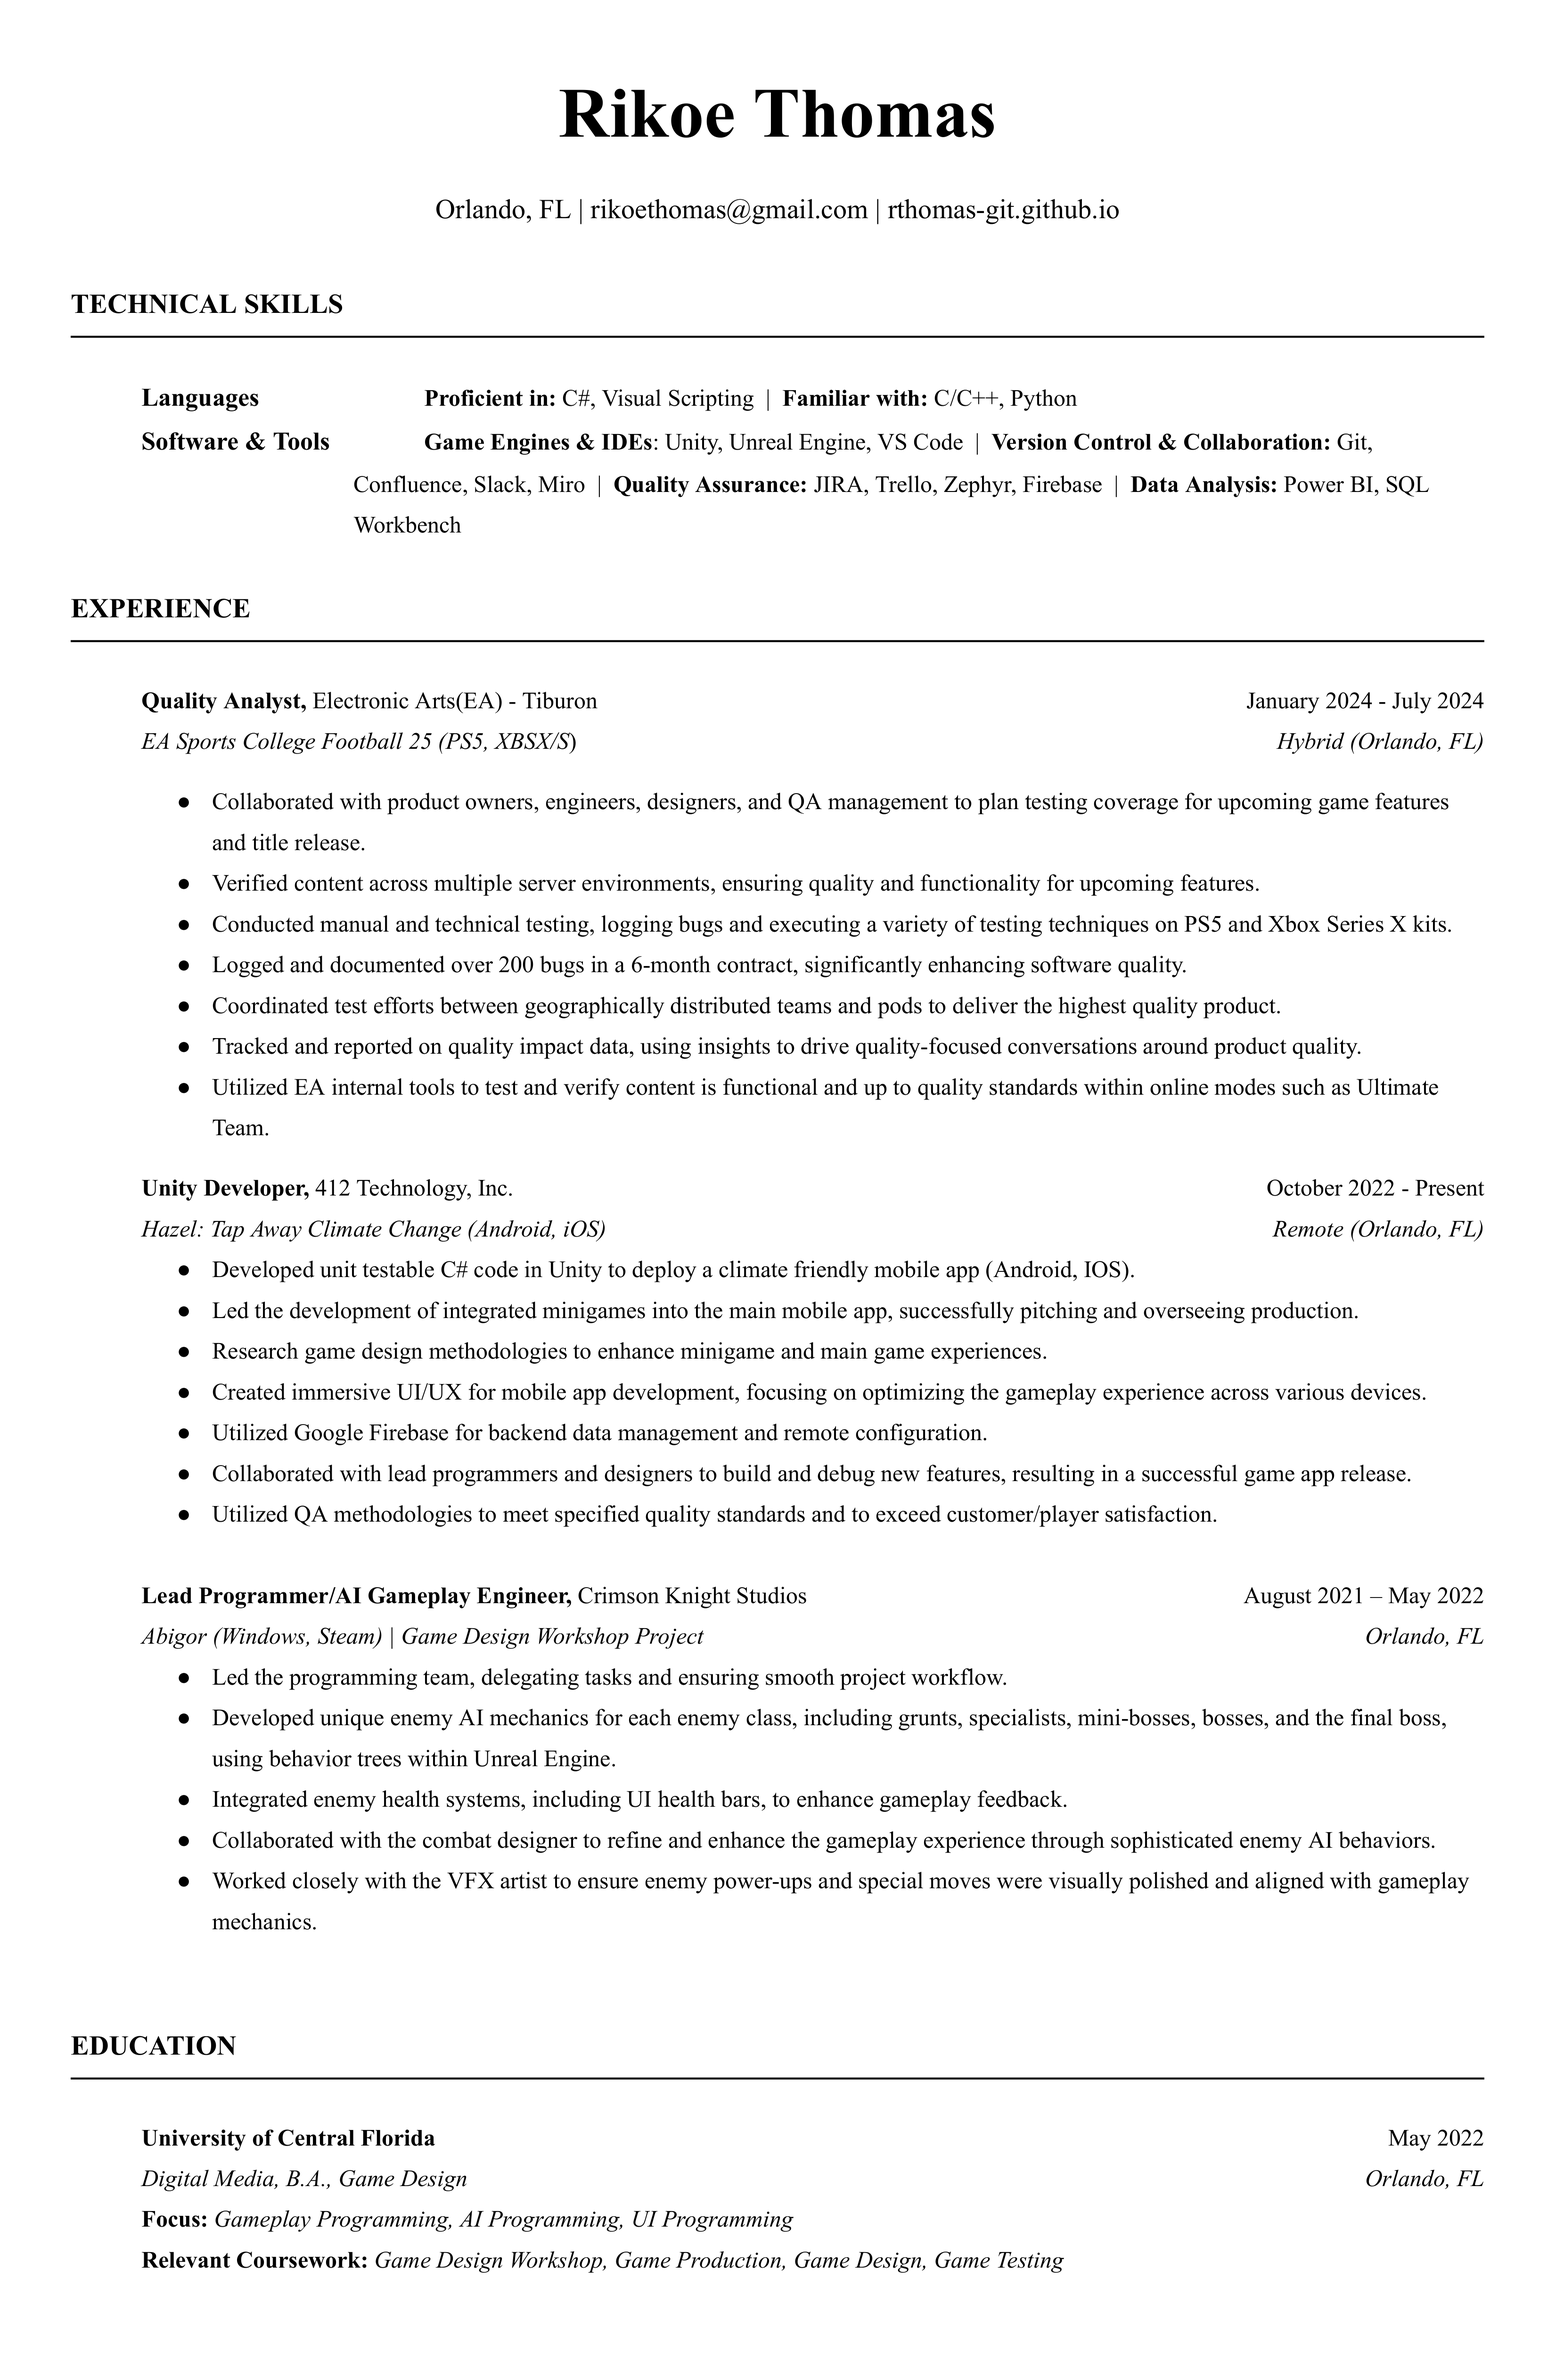
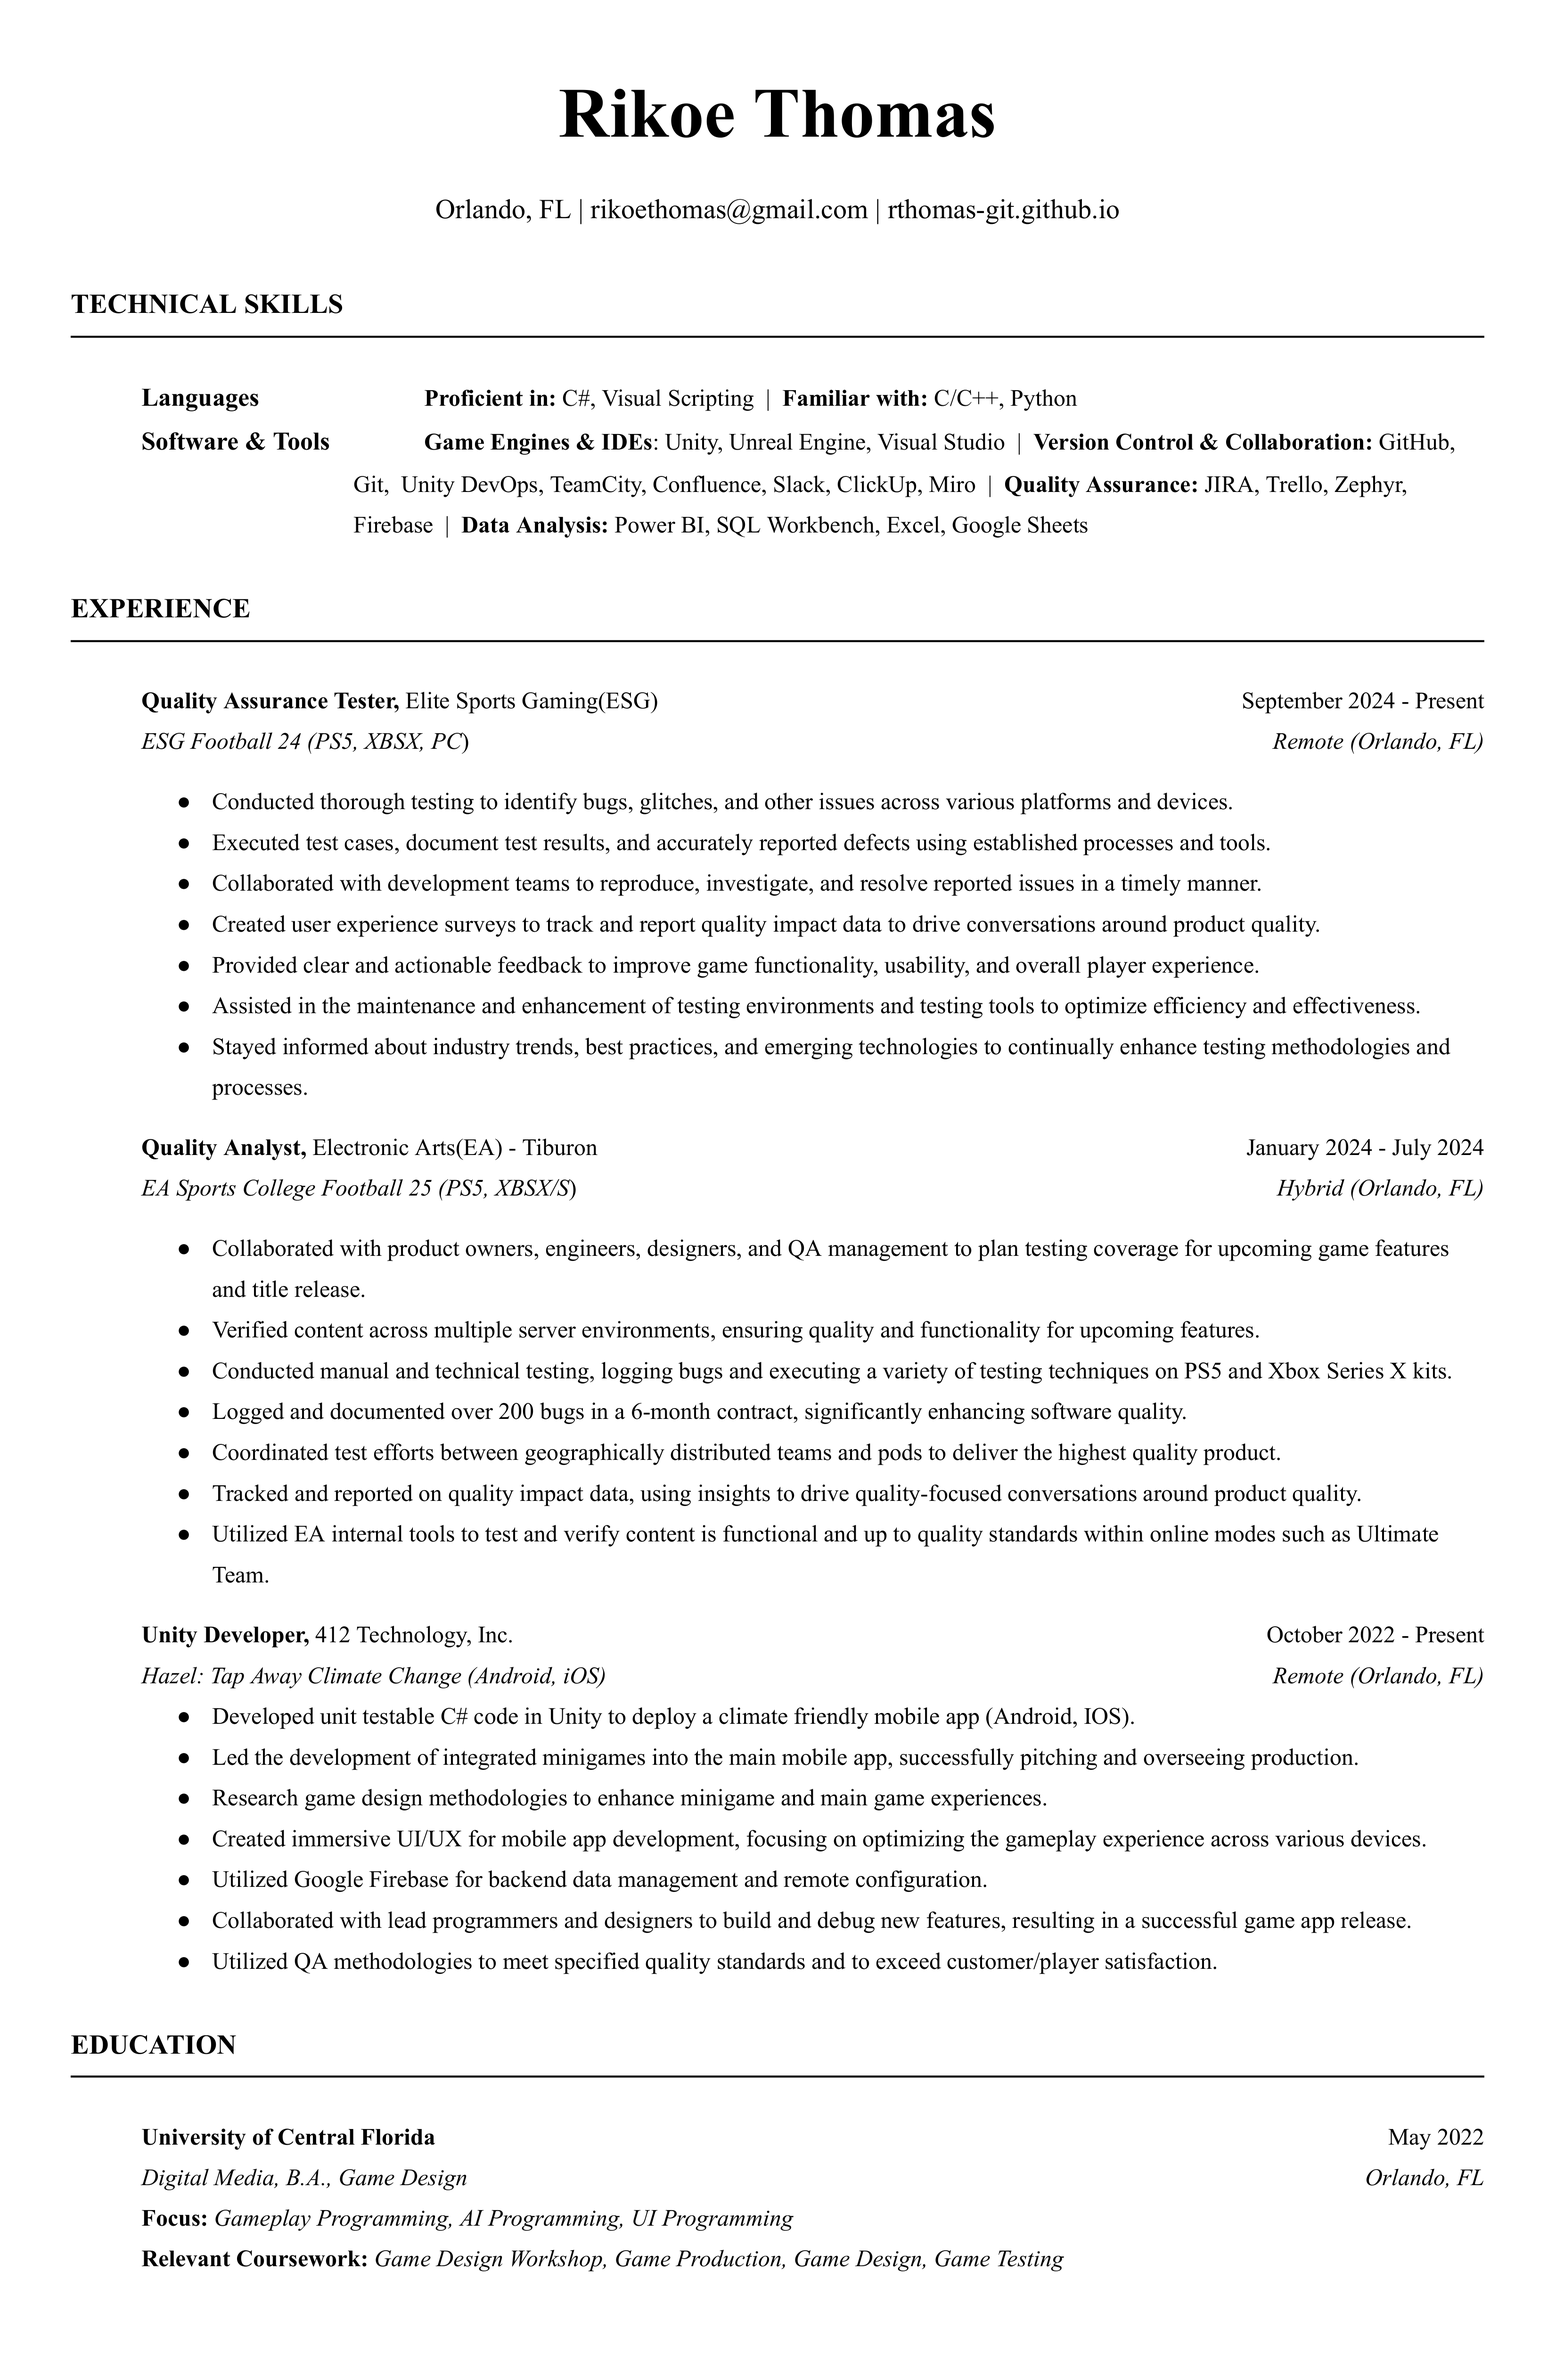
Updated resume png, pdf link, and footer

diff --git a/about.html b/about.html
@@ -43,14 +43,14 @@
 							<section class="post">
 								<header class="major">
 									<h1>About Me</h1>
-									<p>Currently I'm employed at Electronic Arts(EA) Sports as a Quality Analyst, working on a awesome title! Simultaneously, 
+									<p>Currently I'm employed at Elite Sports Gaming(ESG) as a QA Tester, working on a awesome title! Simultaneously, 
 										I am fueling my creative passion by engaging in exciting side projects to keep my innovative spirit alive.  
 										I am always ready for a challenge that will help me grow. Whether it's new releases of anticipated 
 										games or the challenge of making a unique approach to a game, it all falls within my love for games.</p>
 								</header>
 								<!-- Resume PDF Buttons -->
 								<ul class="actions special">
-									<li><a href="https://drive.google.com/file/d/1s-SU22TTWqtQ4fyG9ZFXUIVoEc4T0jik/view?usp=sharing" class="button primary">Resume PDF</a></li>
+									<li><a href="https://drive.google.com/file/d/1Zp_1VMml3r7HX63gC9wwJFmN2JDdSp96/view?usp=sharing" class="button primary">Resume PDF</a></li>
 								</ul>
 								<div class="image main"><img src="images/resume.png" alt="" /></div>
 							</section>
@@ -69,7 +69,7 @@
 
 				<!-- Copyright -->
 					<div id="copyright">
-						<ul><li>&copy; Untitled</li><li>Design: <a href="https://html5up.net">HTML5 UP</a></li></ul>
+						<ul><li>&copy; 2025 Rikoe Thomas</li><li>Design: <a href="https://html5up.net">HTML5 UP</a></li></ul>
 					</div>
 
 			</div>

diff --git a/index.html b/index.html
@@ -117,7 +117,7 @@
 					</div>
 			<!-- Copyright -->
 				<div id="copyright">
-					<ul><li>&copy; Untitled</li><li>Design: <a href="https://html5up.net">HTML5 UP</a></li></ul>
+					<ul><li>&copy; 2025 Rikoe Thomas</li><li>Design: <a href="https://html5up.net">HTML5 UP</a></li></ul>
 				</div>
 			</div>
 

diff --git a/funprojects.html b/funprojects.html
@@ -82,7 +82,7 @@
 					</div>
 			<!-- Copyright -->
 				<div id="copyright">
-					<ul><li>&copy; Untitled</li><li>Design: <a href="https://html5up.net">HTML5 UP</a></li></ul>
+					<ul><li>&copy; 2025 Rikoe Thomas</li><li>Design: <a href="https://html5up.net">HTML5 UP</a></li></ul>
 				</div>
 			</div>
 

diff --git a/abigor.html b/abigor.html
@@ -91,7 +91,7 @@
 
 				<!-- Copyright -->
 					<div id="copyright">
-						<ul><li>&copy; Untitled</li><li>Design: <a href="https://html5up.net">HTML5 UP</a></li></ul>
+						<ul><li>&copy; 2025 Rikoe Thomas</li><li>Design: <a href="https://html5up.net">HTML5 UP</a></li></ul>
 					</div>
 
 			</div>

diff --git a/backyardhero.html b/backyardhero.html
@@ -88,7 +88,7 @@
 
 				<!-- Copyright -->
 					<div id="copyright">
-						<ul><li>&copy; Untitled</li><li>Design: <a href="https://html5up.net">HTML5 UP</a></li></ul>
+						<ul><li>&copy; 2025 Rikoe Thomas</li><li>Design: <a href="https://html5up.net">HTML5 UP</a></li></ul>
 					</div>
 
 			</div>

diff --git a/cactusjim.html b/cactusjim.html
@@ -72,7 +72,7 @@
 
 				<!-- Copyright -->
 					<div id="copyright">
-						<ul><li>&copy; Untitled</li><li>Design: <a href="https://html5up.net">HTML5 UP</a></li></ul>
+						<ul><li>&copy; 2025 Rikoe Thomas</li><li>Design: <a href="https://html5up.net">HTML5 UP</a></li></ul>
 					</div>
 
 			</div>

diff --git a/campingnight.html b/campingnight.html
@@ -90,7 +90,7 @@
 
 				<!-- Copyright -->
 					<div id="copyright">
-						<ul><li>&copy; Untitled</li><li>Design: <a href="https://html5up.net">HTML5 UP</a></li></ul>
+						<ul><li>&copy; 2025 Rikoe Thomas</li><li>Design: <a href="https://html5up.net">HTML5 UP</a></li></ul>
 					</div>
 
 			</div>

diff --git a/flysouth.html b/flysouth.html
@@ -93,7 +93,7 @@
 
 				<!-- Copyright -->
 					<div id="copyright">
-						<ul><li>&copy; Untitled</li><li>Design: <a href="https://html5up.net">HTML5 UP</a></li></ul>
+						<ul><li>&copy; 2025 Rikoe Thomas</li><li>Design: <a href="https://html5up.net">HTML5 UP</a></li></ul>
 					</div>
 
 			</div>

diff --git a/hazel.html b/hazel.html
@@ -94,7 +94,7 @@
 
 				<!-- Copyright -->
 					<div id="copyright">
-						<ul><li>&copy; Untitled</li><li>Design: <a href="https://html5up.net">HTML5 UP</a></li></ul>
+						<ul><li>&copy; 2025 Rikoe Thomas</li><li>Design: <a href="https://html5up.net">HTML5 UP</a></li></ul>
 					</div>
 
 			</div>

diff --git a/wings.html b/wings.html
@@ -89,7 +89,7 @@
 
 				<!-- Copyright -->
 					<div id="copyright">
-						<ul><li>&copy; Untitled</li><li>Design: <a href="https://html5up.net">HTML5 UP</a></li></ul>
+						<ul><li>&copy; 2025 Rikoe Thomas</li><li>Design: <a href="https://html5up.net">HTML5 UP</a></li></ul>
 					</div>
 
 			</div>
